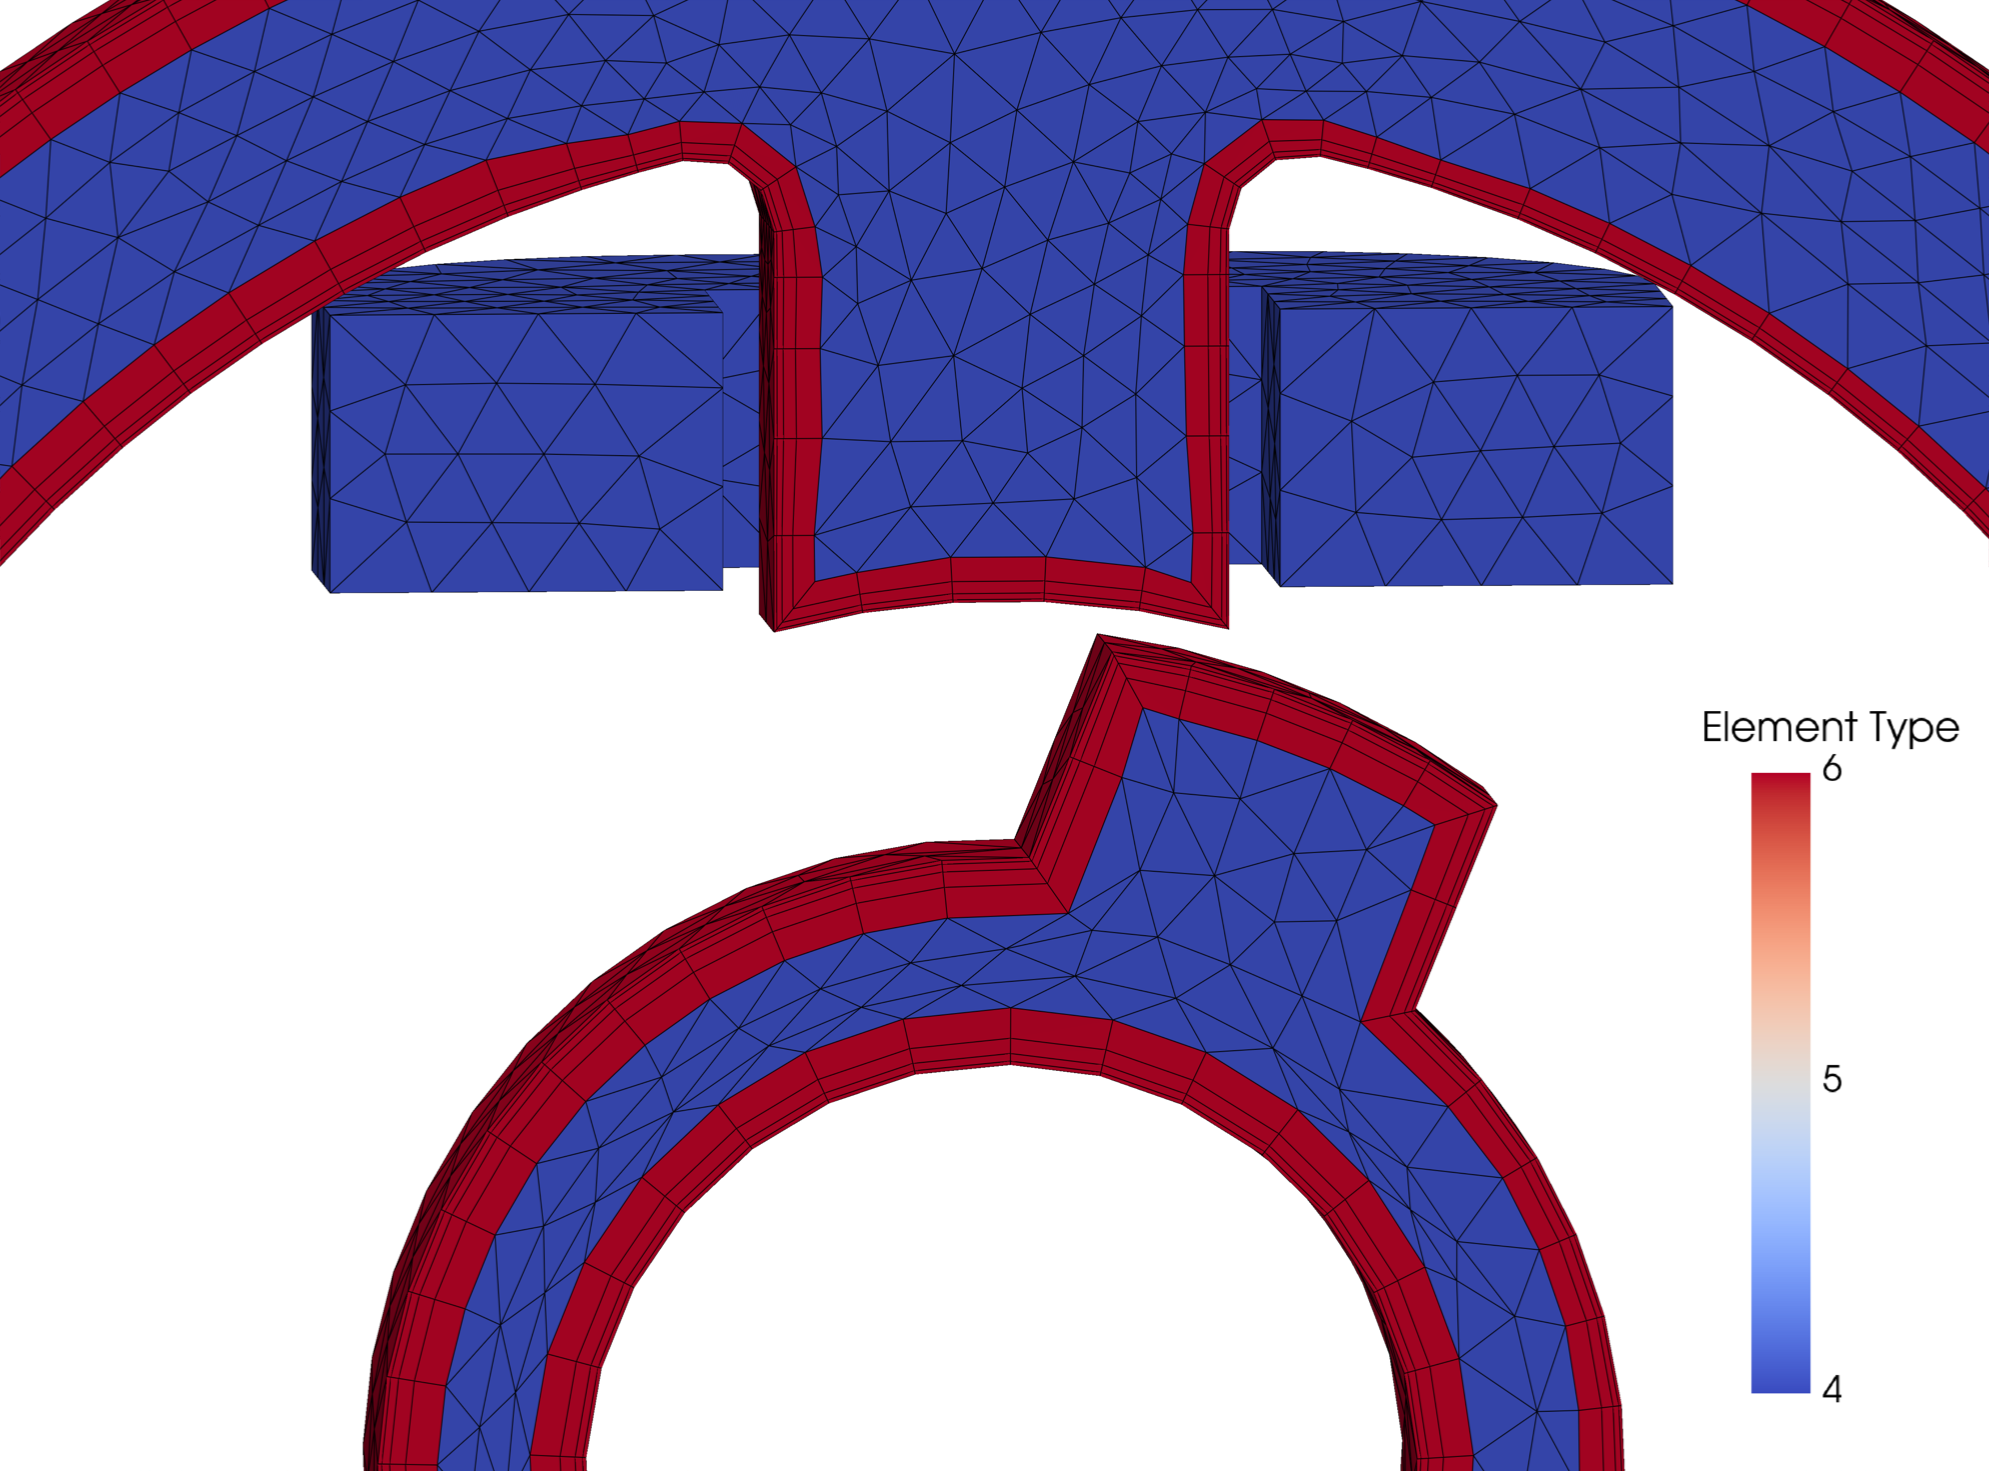
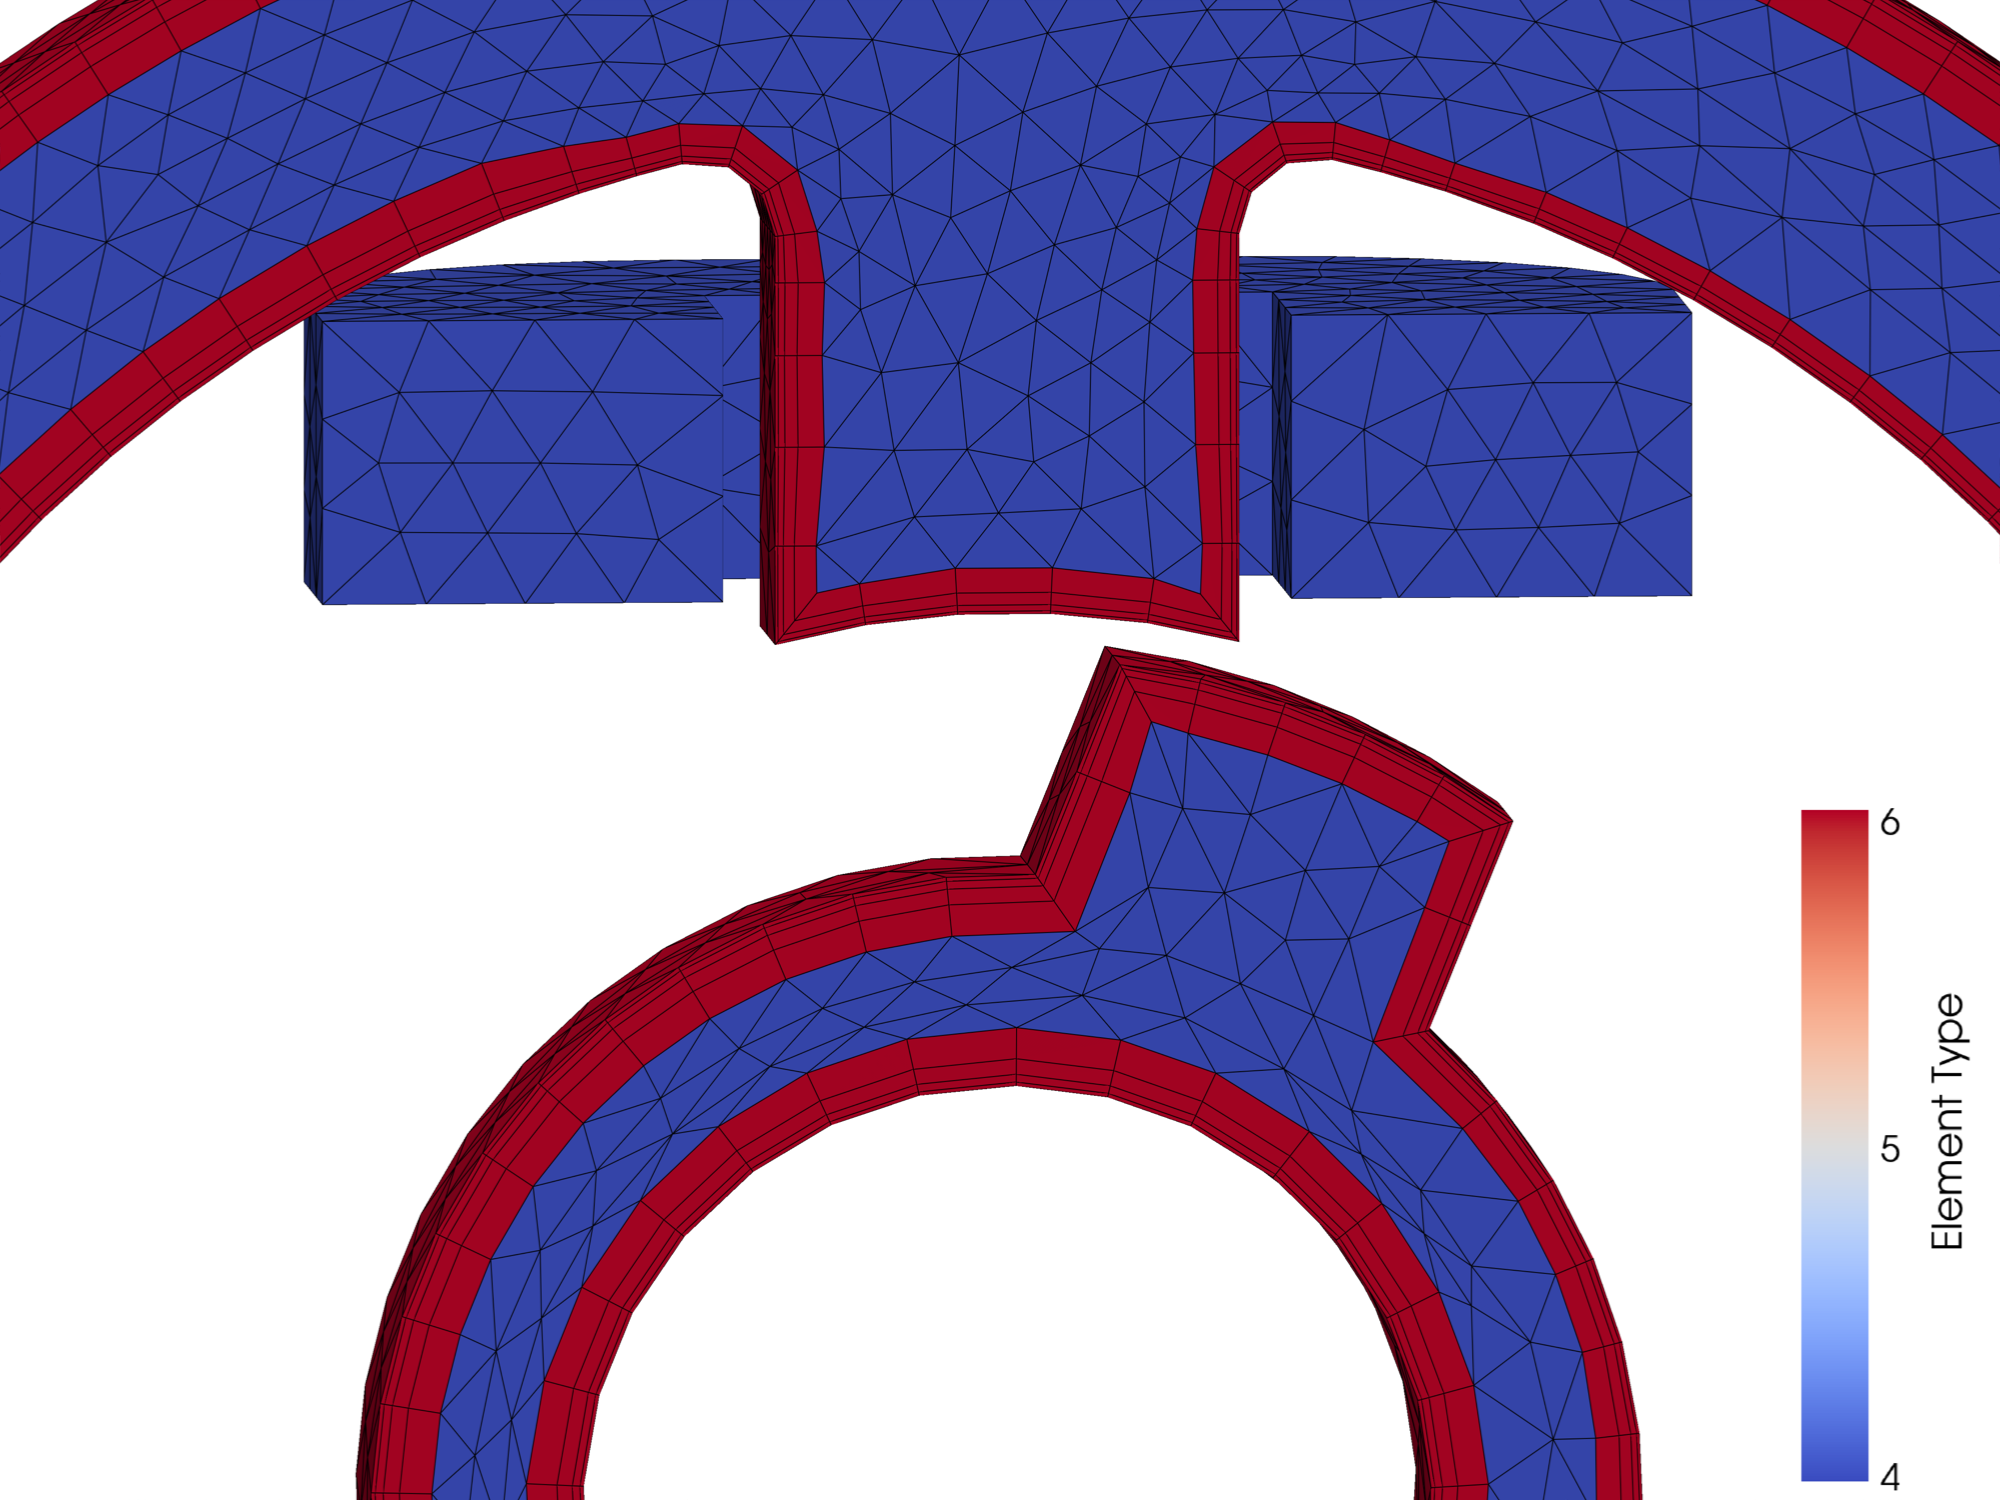
Fix issues with vertical color bar titles

diff --git a/casekit/pyvista_scene.py b/casekit/pyvista_scene.py
@@ -18,6 +18,7 @@ import pyvista as pv
 from PIL import Image
 from vtkmodules.vtkCommonDataModel import vtkCompositeDataSet
 from vtkmodules.vtkIOXML import vtkXMLPartitionedDataSetCollectionReader
+from vtkmodules.vtkRenderingCore import vtkTextRenderer
 
 from casekit.images import save_gif as save_images_gif
 from casekit.images import trim
@@ -49,10 +50,50 @@ def output_files(case_dir: Path) -> List[Path]:
     return [output_dir / entry["name"] for entry in series["files"]]
 
 
+def _fit_vertical_bar(plotter: pv.Plotter, bar):
+    """Turn the title of the vertical color bar `bar` along it and size its box to the content:
+    a bar two labels high in thickness, the widest label and the title, so that the title
+    follows the labels whatever their length."""
+    renderer = next(r for r in plotter.renderers if r.HasViewProp(bar))
+    label_property = bar.GetLabelTextProperty()
+    title_property = bar.GetTitleTextProperty()
+    text_renderer = vtkTextRenderer()
+    dpi = plotter.render_window.GetDPI()
+
+    def size(text, text_property):
+        box = [0] * 4
+        text_renderer.GetBoundingBox(text_property, text, box, dpi)
+        return box[1] - box[0], box[3] - box[2]
+
+    low, high = bar.GetLookupTable().GetRange()
+    labels = [bar.GetLabelFormat() % v for v in np.linspace(low, high, bar.GetNumberOfLabels())]
+    label_width = max(size(label, label_property)[0] for label in labels)
+    label_height = size("0", label_property)[1]
+    title_height = size(bar.GetTitle(), title_property)[1]
+    separation = label_height // 2
+    thickness = 2 * label_height
+    width = thickness + bar.GetTextPad() + label_width + separation + title_height + separation
+
+    bar.SetUnconstrainedFontSize(True)
+    bar.SetForceVerticalTitle(True)
+    bar.SetVerticalTitleSeparation(separation)
+    bar.SetBarRatio(thickness / width)
+    bar.SetWidth(width / renderer.GetSize()[0])
+
+
+def screenshot(plotter: pv.Plotter) -> np.ndarray:
+    """Render `plotter`, with the vertical color bars fitted to their labels and titles."""
+    for bar in plotter.scalar_bars.values():
+        if bar.GetOrientation() == 1:  # VTK_ORIENT_VERTICAL
+            _fit_vertical_bar(plotter, bar)
+    plotter.render()
+    return plotter.screenshot()
+
+
 def save(plotter: pv.Plotter, path: Path):
     """Screenshot of `plotter` without its white margins."""
     Path(path).parent.mkdir(parents=True, exist_ok=True)
-    trim(Image.fromarray(plotter.screenshot())).save(path)
+    trim(Image.fromarray(screenshot(plotter))).save(path)
 
 
 def save_gif(frames: Sequence[np.ndarray], path: Path, fps: int = 8):

diff --git a/Electromagnetics/Compumag-Team24-Locked-Rotor/create_scene.py b/Electromagnetics/Compumag-Team24-Locked-Rotor/create_scene.py
@@ -17,7 +17,7 @@ import numpy as np
 import pyvista as pv
 
 from casekit import PlotStyle, xy_axes
-from casekit.pyvista_scene import output_files, save, save_gif, theme
+from casekit.pyvista_scene import output_files, save, save_gif, screenshot, theme
 
 tables = case_dir / "data" / "tables"
 monitors = np.load(case_dir / "VisualizationOutput" / "Scene_Data.npz")
@@ -34,7 +34,7 @@ def read_iron_and_coils(path):
 
 # Element types: the camera looks from +z at the symmetry plane z = 0, where the prism layers
 # show as quads. The color bar sits in the free space to the right of the rotor.
-plotter = pv.Plotter(theme=theme, off_screen=True, window_size=(1989, 1471))
+plotter = pv.Plotter(theme=theme, off_screen=True, window_size=(2000, 1500))
 plotter.add_mesh(
     read_iron_and_coils(files[0]),
     scalars="Element Type",
@@ -43,11 +43,10 @@ plotter.add_mesh(
     scalar_bar_args=dict(
         n_labels=3,
         fmt=" %.0f",
-        position_x=0.88,
-        position_y=0.05,
+        position_x=0.9,
+        position_y=0.01,
         title_font_size=40,
         label_font_size=36,
-        unconstrained_font_size=True,
     ),
 )
 plotter.camera_position = [(-0.012, 0.06, 0.16), (0.0, 0.045, -0.006), (0, 1, 0)]
@@ -60,14 +59,14 @@ save(plotter, case_dir / "results" / "Scene_ElementType.png")
 plotter = pv.Plotter(
     theme=theme,
     off_screen=True,
-    window_size=(1200, 540),
+    window_size=(1800, 800),
     shape=(1, 2),
     col_weights=[0.55, 0.45],
     border=False,
 )
 plotter.subplot(0, 1)
 plotter.renderer.disable_anti_aliasing()
-fig, (ax_current, ax_torque) = plt.subplots(2, 1, dpi=75, layout="constrained")
+fig, (ax_current, ax_torque) = plt.subplots(2, 1, dpi=100, layout="constrained")
 plotter.add_chart(pv.ChartMPL(fig))
 plotter.subplot(0, 0)
 
@@ -92,11 +91,10 @@ for i, path in enumerate(files):
             n_labels=4,
             fmt=" %.0e",
             height=0.7,
-            position_x=0.82,
+            position_x=0.8,
             position_y=0.12,
-            title_font_size=16,
-            label_font_size=14,
-            unconstrained_font_size=True,
+            title_font_size=24,
+            label_font_size=20,
         ),
     )
     if i == 0:
@@ -122,8 +120,7 @@ for i, path in enumerate(files):
         ylim=(0.0, 3.5),
         **common,
     )
-    plotter.render()
-    frames.append(plotter.screenshot())
+    frames.append(screenshot(plotter))
 plotter.close()
 
 save_gif(frames, case_dir / "results" / "Result_Animation.gif")
